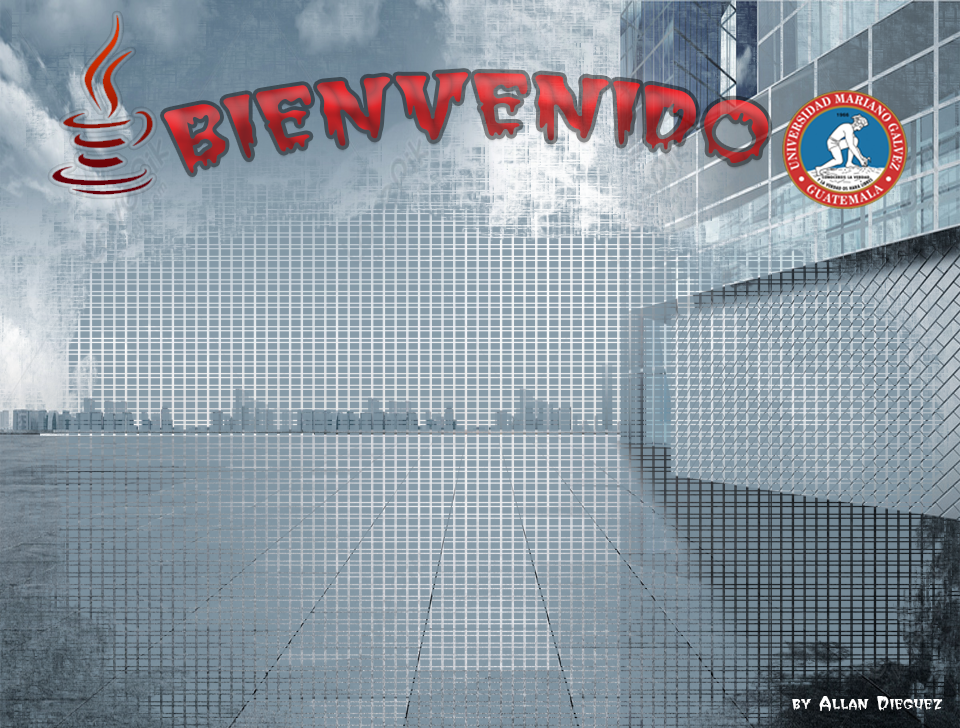
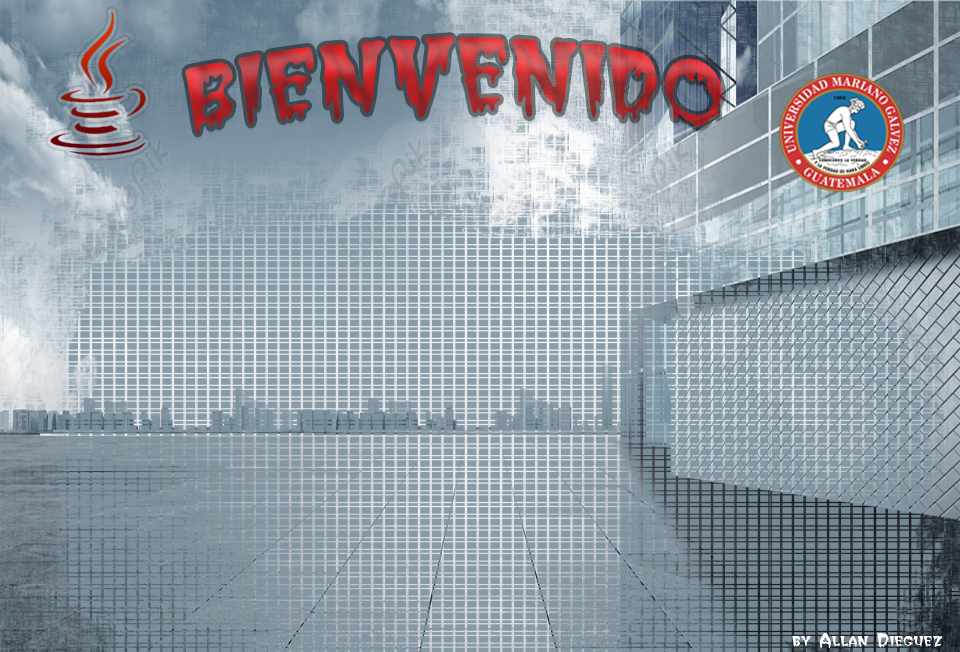
Proyecto Programación v1.11
Se modifico la imagen de fondo de la pantalla de bienvenida

diff --git a/ProyectoProgramacion/src/main/java/com/mycompany/login/PantallaHacerUsuarios.java b/ProyectoProgramacion/src/main/java/com/mycompany/login/PantallaHacerUsuarios.java
@@ -168,7 +168,7 @@ public class PantallaHacerUsuarios extends javax.swing.JFrame {
                 btnInicioActionPerformed(evt);
             }
         });
-        jPanel1.add(btnInicio, new org.netbeans.lib.awtextra.AbsoluteConstraints(720, 10, 87, 39));
+        jPanel1.add(btnInicio, new org.netbeans.lib.awtextra.AbsoluteConstraints(740, 10, 87, 39));
 
         btnPerfilAdministrador.setFont(new java.awt.Font("Segoe UI", 1, 14)); // NOI18N
         btnPerfilAdministrador.setText("Mi Perfil");
@@ -178,7 +178,7 @@ public class PantallaHacerUsuarios extends javax.swing.JFrame {
                 btnPerfilAdministradorActionPerformed(evt);
             }
         });
-        jPanel1.add(btnPerfilAdministrador, new org.netbeans.lib.awtextra.AbsoluteConstraints(820, 10, 105, 40));
+        jPanel1.add(btnPerfilAdministrador, new org.netbeans.lib.awtextra.AbsoluteConstraints(840, 10, 105, 40));
 
         btnPerfil.setFont(new java.awt.Font("Segoe UI", 1, 14)); // NOI18N
         btnPerfil.setText("Mi Perfil");
@@ -188,19 +188,19 @@ public class PantallaHacerUsuarios extends javax.swing.JFrame {
                 btnPerfilActionPerformed(evt);
             }
         });
-        jPanel1.add(btnPerfil, new org.netbeans.lib.awtextra.AbsoluteConstraints(820, 10, 105, 40));
+        jPanel1.add(btnPerfil, new org.netbeans.lib.awtextra.AbsoluteConstraints(840, 10, 105, 40));
 
         jLabel2.setIcon(new javax.swing.ImageIcon(getClass().getResource("/agregar-usuario.png"))); // NOI18N
-        jPanel1.add(jLabel2, new org.netbeans.lib.awtextra.AbsoluteConstraints(23, 232, -1, -1));
+        jPanel1.add(jLabel2, new org.netbeans.lib.awtextra.AbsoluteConstraints(30, 180, -1, -1));
 
         jLabel3.setIcon(new javax.swing.ImageIcon(getClass().getResource("/equipos.png"))); // NOI18N
-        jPanel1.add(jLabel3, new org.netbeans.lib.awtextra.AbsoluteConstraints(23, 362, -1, -1));
+        jPanel1.add(jLabel3, new org.netbeans.lib.awtextra.AbsoluteConstraints(30, 310, -1, -1));
 
         jLabel4.setIcon(new javax.swing.ImageIcon(getClass().getResource("/proyecto.png"))); // NOI18N
-        jPanel1.add(jLabel4, new org.netbeans.lib.awtextra.AbsoluteConstraints(23, 482, -1, -1));
+        jPanel1.add(jLabel4, new org.netbeans.lib.awtextra.AbsoluteConstraints(30, 430, -1, -1));
 
         jLabel5.setIcon(new javax.swing.ImageIcon(getClass().getResource("/lista-de-tareas.png"))); // NOI18N
-        jPanel1.add(jLabel5, new org.netbeans.lib.awtextra.AbsoluteConstraints(23, 603, -1, -1));
+        jPanel1.add(jLabel5, new org.netbeans.lib.awtextra.AbsoluteConstraints(30, 540, -1, -1));
 
         btnCrearUsuario.setFont(new java.awt.Font("Segoe UI", 1, 12)); // NOI18N
         btnCrearUsuario.setText("Crear Usuario");
@@ -210,7 +210,7 @@ public class PantallaHacerUsuarios extends javax.swing.JFrame {
                 btnCrearUsuarioActionPerformed(evt);
             }
         });
-        jPanel1.add(btnCrearUsuario, new org.netbeans.lib.awtextra.AbsoluteConstraints(110, 250, 127, 60));
+        jPanel1.add(btnCrearUsuario, new org.netbeans.lib.awtextra.AbsoluteConstraints(120, 200, 127, 60));
 
         btnConsultarUsuario.setFont(new java.awt.Font("Segoe UI", 1, 12)); // NOI18N
         btnConsultarUsuario.setText("Listado de Usuarios");
@@ -220,7 +220,7 @@ public class PantallaHacerUsuarios extends javax.swing.JFrame {
                 btnConsultarUsuarioActionPerformed(evt);
             }
         });
-        jPanel1.add(btnConsultarUsuario, new org.netbeans.lib.awtextra.AbsoluteConstraints(260, 250, 135, 60));
+        jPanel1.add(btnConsultarUsuario, new org.netbeans.lib.awtextra.AbsoluteConstraints(270, 200, 135, 60));
 
         btnEditarUsuario.setFont(new java.awt.Font("Segoe UI", 1, 12)); // NOI18N
         btnEditarUsuario.setText("Editar Usuario");
@@ -230,7 +230,7 @@ public class PantallaHacerUsuarios extends javax.swing.JFrame {
                 btnEditarUsuarioActionPerformed(evt);
             }
         });
-        jPanel1.add(btnEditarUsuario, new org.netbeans.lib.awtextra.AbsoluteConstraints(420, 250, 148, 60));
+        jPanel1.add(btnEditarUsuario, new org.netbeans.lib.awtextra.AbsoluteConstraints(430, 200, 148, 60));
 
         btnEliminarUsuario.setFont(new java.awt.Font("Segoe UI", 1, 11)); // NOI18N
         btnEliminarUsuario.setText("Eliminar Usuario");
@@ -240,7 +240,7 @@ public class PantallaHacerUsuarios extends javax.swing.JFrame {
                 btnEliminarUsuarioActionPerformed(evt);
             }
         });
-        jPanel1.add(btnEliminarUsuario, new org.netbeans.lib.awtextra.AbsoluteConstraints(590, 250, 148, 60));
+        jPanel1.add(btnEliminarUsuario, new org.netbeans.lib.awtextra.AbsoluteConstraints(600, 200, 148, 60));
 
         btnCrearEquipo.setFont(new java.awt.Font("Segoe UI", 1, 12)); // NOI18N
         btnCrearEquipo.setText("Crear Equipo");
@@ -250,7 +250,7 @@ public class PantallaHacerUsuarios extends javax.swing.JFrame {
                 btnCrearEquipoActionPerformed(evt);
             }
         });
-        jPanel1.add(btnCrearEquipo, new org.netbeans.lib.awtextra.AbsoluteConstraints(110, 380, 120, 60));
+        jPanel1.add(btnCrearEquipo, new org.netbeans.lib.awtextra.AbsoluteConstraints(120, 330, 120, 60));
 
         btnConsultarEquipos.setFont(new java.awt.Font("Segoe UI", 1, 12)); // NOI18N
         btnConsultarEquipos.setText("Listado de Equipos");
@@ -260,7 +260,7 @@ public class PantallaHacerUsuarios extends javax.swing.JFrame {
                 btnConsultarEquiposActionPerformed(evt);
             }
         });
-        jPanel1.add(btnConsultarEquipos, new org.netbeans.lib.awtextra.AbsoluteConstraints(250, 380, 148, 60));
+        jPanel1.add(btnConsultarEquipos, new org.netbeans.lib.awtextra.AbsoluteConstraints(260, 330, 148, 60));
 
         btnAsignarMiembroaEquipo.setFont(new java.awt.Font("Segoe UI", 1, 12)); // NOI18N
         btnAsignarMiembroaEquipo.setText("Asignar miembro a equipo");
@@ -270,7 +270,7 @@ public class PantallaHacerUsuarios extends javax.swing.JFrame {
                 btnAsignarMiembroaEquipoActionPerformed(evt);
             }
         });
-        jPanel1.add(btnAsignarMiembroaEquipo, new org.netbeans.lib.awtextra.AbsoluteConstraints(420, 380, 171, 60));
+        jPanel1.add(btnAsignarMiembroaEquipo, new org.netbeans.lib.awtextra.AbsoluteConstraints(430, 330, 171, 60));
 
         btnConsultarMiembrodelEquipo.setFont(new java.awt.Font("Segoe UI", 1, 12)); // NOI18N
         btnConsultarMiembrodelEquipo.setText("Consultar miembros del equipo");
@@ -280,7 +280,7 @@ public class PantallaHacerUsuarios extends javax.swing.JFrame {
                 btnConsultarMiembrodelEquipoActionPerformed(evt);
             }
         });
-        jPanel1.add(btnConsultarMiembrodelEquipo, new org.netbeans.lib.awtextra.AbsoluteConstraints(610, 380, 195, 60));
+        jPanel1.add(btnConsultarMiembrodelEquipo, new org.netbeans.lib.awtextra.AbsoluteConstraints(620, 330, 195, 60));
 
         btnCrearProyecto.setFont(new java.awt.Font("Segoe UI", 1, 12)); // NOI18N
         btnCrearProyecto.setText("Crear Proyecto");
@@ -290,7 +290,7 @@ public class PantallaHacerUsuarios extends javax.swing.JFrame {
                 btnCrearProyectoActionPerformed(evt);
             }
         });
-        jPanel1.add(btnCrearProyecto, new org.netbeans.lib.awtextra.AbsoluteConstraints(110, 500, 101, 60));
+        jPanel1.add(btnCrearProyecto, new org.netbeans.lib.awtextra.AbsoluteConstraints(120, 450, 101, 60));
 
         btnConsultarProyectos.setFont(new java.awt.Font("Segoe UI", 1, 10)); // NOI18N
         btnConsultarProyectos.setText("Ver todos los proyectos");
@@ -300,7 +300,7 @@ public class PantallaHacerUsuarios extends javax.swing.JFrame {
                 btnConsultarProyectosActionPerformed(evt);
             }
         });
-        jPanel1.add(btnConsultarProyectos, new org.netbeans.lib.awtextra.AbsoluteConstraints(230, 500, 147, 60));
+        jPanel1.add(btnConsultarProyectos, new org.netbeans.lib.awtextra.AbsoluteConstraints(240, 450, 147, 60));
 
         btnEditarProyecto.setFont(new java.awt.Font("Segoe UI", 1, 12)); // NOI18N
         btnEditarProyecto.setText("Editar Proyecto");
@@ -310,7 +310,7 @@ public class PantallaHacerUsuarios extends javax.swing.JFrame {
                 btnEditarProyectoActionPerformed(evt);
             }
         });
-        jPanel1.add(btnEditarProyecto, new org.netbeans.lib.awtextra.AbsoluteConstraints(390, 500, 128, 60));
+        jPanel1.add(btnEditarProyecto, new org.netbeans.lib.awtextra.AbsoluteConstraints(400, 450, 128, 60));
 
         btnAsignarProyectoaEquipo.setFont(new java.awt.Font("Segoe UI", 1, 12)); // NOI18N
         btnAsignarProyectoaEquipo.setText("Asignar proyecto a equipo");
@@ -320,7 +320,7 @@ public class PantallaHacerUsuarios extends javax.swing.JFrame {
                 btnAsignarProyectoaEquipoActionPerformed(evt);
             }
         });
-        jPanel1.add(btnAsignarProyectoaEquipo, new org.netbeans.lib.awtextra.AbsoluteConstraints(540, 500, 170, 60));
+        jPanel1.add(btnAsignarProyectoaEquipo, new org.netbeans.lib.awtextra.AbsoluteConstraints(550, 450, 170, 60));
 
         btnConsultarProyectosdelEquipo.setFont(new java.awt.Font("Segoe UI", 1, 12)); // NOI18N
         btnConsultarProyectosdelEquipo.setText("Listado de proyectos del equipo");
@@ -330,7 +330,7 @@ public class PantallaHacerUsuarios extends javax.swing.JFrame {
                 btnConsultarProyectosdelEquipoActionPerformed(evt);
             }
         });
-        jPanel1.add(btnConsultarProyectosdelEquipo, new org.netbeans.lib.awtextra.AbsoluteConstraints(720, 500, 198, 60));
+        jPanel1.add(btnConsultarProyectosdelEquipo, new org.netbeans.lib.awtextra.AbsoluteConstraints(730, 450, 198, 60));
 
         btnCrearTarea.setFont(new java.awt.Font("Segoe UI", 1, 12)); // NOI18N
         btnCrearTarea.setText("Crear Tarea");
@@ -340,7 +340,7 @@ public class PantallaHacerUsuarios extends javax.swing.JFrame {
                 btnCrearTareaActionPerformed(evt);
             }
         });
-        jPanel1.add(btnCrearTarea, new org.netbeans.lib.awtextra.AbsoluteConstraints(110, 610, 93, 60));
+        jPanel1.add(btnCrearTarea, new org.netbeans.lib.awtextra.AbsoluteConstraints(120, 550, 100, 60));
 
         btnConsultartodasTareas.setFont(new java.awt.Font("Segoe UI", 1, 10)); // NOI18N
         btnConsultartodasTareas.setText("Ver las tareas de todos ");
@@ -350,7 +350,7 @@ public class PantallaHacerUsuarios extends javax.swing.JFrame {
                 btnConsultartodasTareasActionPerformed(evt);
             }
         });
-        jPanel1.add(btnConsultartodasTareas, new org.netbeans.lib.awtextra.AbsoluteConstraints(220, 610, 173, 60));
+        jPanel1.add(btnConsultartodasTareas, new org.netbeans.lib.awtextra.AbsoluteConstraints(240, 550, 173, 60));
 
         btnEditarTareas.setFont(new java.awt.Font("Segoe UI", 1, 12)); // NOI18N
         btnEditarTareas.setText("Editar Tareas");
@@ -360,7 +360,7 @@ public class PantallaHacerUsuarios extends javax.swing.JFrame {
                 btnEditarTareasActionPerformed(evt);
             }
         });
-        jPanel1.add(btnEditarTareas, new org.netbeans.lib.awtextra.AbsoluteConstraints(420, 610, 130, 60));
+        jPanel1.add(btnEditarTareas, new org.netbeans.lib.awtextra.AbsoluteConstraints(430, 550, 130, 60));
 
         btnEliminarTareas.setFont(new java.awt.Font("Segoe UI", 1, 12)); // NOI18N
         btnEliminarTareas.setText("Eliminar Tarea");
@@ -370,7 +370,7 @@ public class PantallaHacerUsuarios extends javax.swing.JFrame {
                 btnEliminarTareasActionPerformed(evt);
             }
         });
-        jPanel1.add(btnEliminarTareas, new org.netbeans.lib.awtextra.AbsoluteConstraints(560, 610, 126, 60));
+        jPanel1.add(btnEliminarTareas, new org.netbeans.lib.awtextra.AbsoluteConstraints(570, 550, 126, 60));
 
         btnConsultarTareasdeMiembros.setFont(new java.awt.Font("Segoe UI", 1, 12)); // NOI18N
         btnConsultarTareasdeMiembros.setText("Listado de tareas de miembros");
@@ -380,30 +380,30 @@ public class PantallaHacerUsuarios extends javax.swing.JFrame {
                 btnConsultarTareasdeMiembrosActionPerformed(evt);
             }
         });
-        jPanel1.add(btnConsultarTareasdeMiembros, new org.netbeans.lib.awtextra.AbsoluteConstraints(710, 610, 189, 60));
+        jPanel1.add(btnConsultarTareasdeMiembros, new org.netbeans.lib.awtextra.AbsoluteConstraints(720, 550, 189, 60));
 
         Usuarios.setFont(new java.awt.Font("Segoe UI", 1, 18)); // NOI18N
         Usuarios.setForeground(new java.awt.Color(255, 0, 0));
         Usuarios.setText("Usuarios");
-        jPanel1.add(Usuarios, new org.netbeans.lib.awtextra.AbsoluteConstraints(110, 216, 110, 30));
+        jPanel1.add(Usuarios, new org.netbeans.lib.awtextra.AbsoluteConstraints(120, 170, 110, 30));
 
         Equipos.setFont(new java.awt.Font("Segoe UI", 1, 18)); // NOI18N
         Equipos.setForeground(new java.awt.Color(255, 0, 0));
         Equipos.setText("Equipos");
-        jPanel1.add(Equipos, new org.netbeans.lib.awtextra.AbsoluteConstraints(110, 346, 110, 30));
+        jPanel1.add(Equipos, new org.netbeans.lib.awtextra.AbsoluteConstraints(120, 300, 110, 30));
 
         Proyectos.setFont(new java.awt.Font("Segoe UI", 1, 18)); // NOI18N
         Proyectos.setForeground(new java.awt.Color(255, 0, 0));
         Proyectos.setText("Proyectos");
-        jPanel1.add(Proyectos, new org.netbeans.lib.awtextra.AbsoluteConstraints(110, 466, 110, 30));
+        jPanel1.add(Proyectos, new org.netbeans.lib.awtextra.AbsoluteConstraints(120, 420, 110, 30));
 
         Tareas.setFont(new java.awt.Font("Segoe UI", 1, 18)); // NOI18N
         Tareas.setForeground(new java.awt.Color(255, 0, 0));
         Tareas.setText("Tareas");
-        jPanel1.add(Tareas, new org.netbeans.lib.awtextra.AbsoluteConstraints(110, 580, 100, 30));
+        jPanel1.add(Tareas, new org.netbeans.lib.awtextra.AbsoluteConstraints(120, 520, 100, 30));
 
         Fondo.setIcon(new javax.swing.ImageIcon(getClass().getResource("/Fondo.png"))); // NOI18N
-        jPanel1.add(Fondo, new org.netbeans.lib.awtextra.AbsoluteConstraints(0, 0, 960, 700));
+        jPanel1.add(Fondo, new org.netbeans.lib.awtextra.AbsoluteConstraints(0, 0, 960, 650));
 
         btnSalir.setText("Salir");
         btnSalir.addMouseListener(new java.awt.event.MouseAdapter() {
